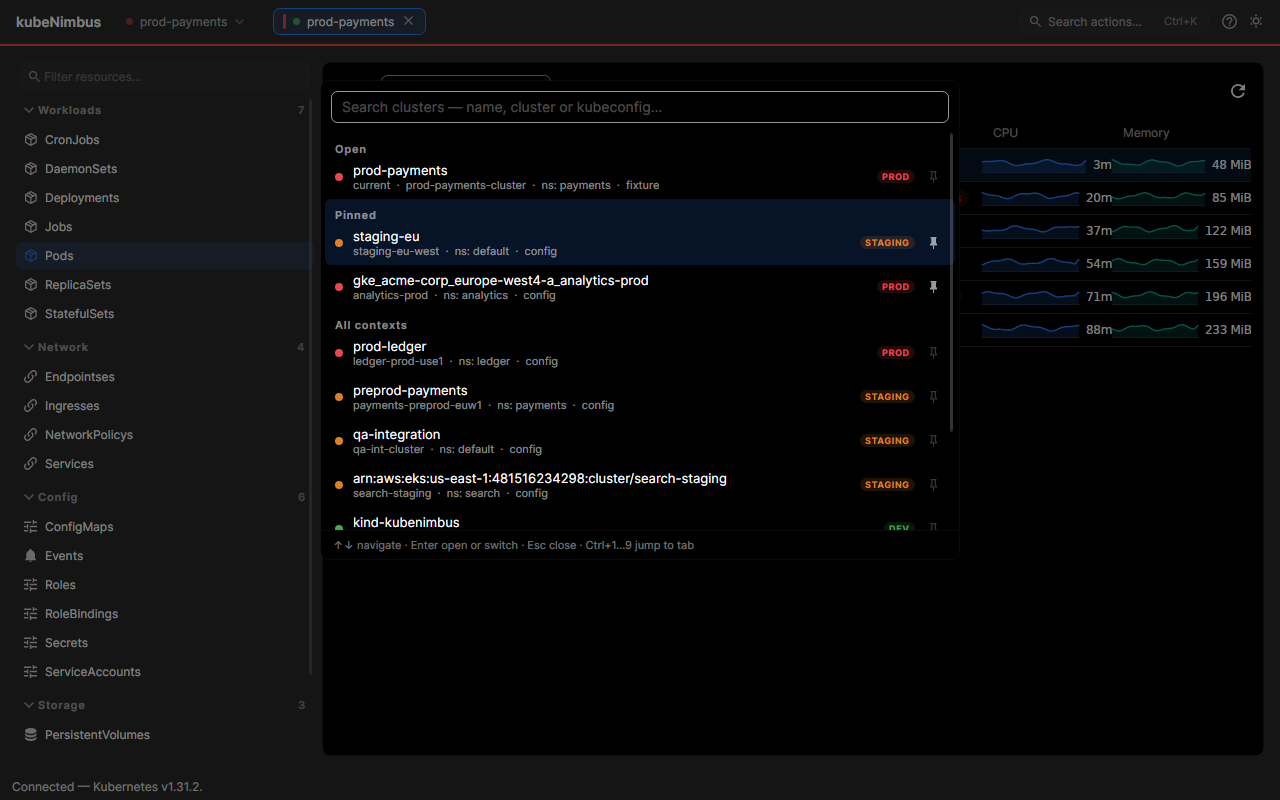
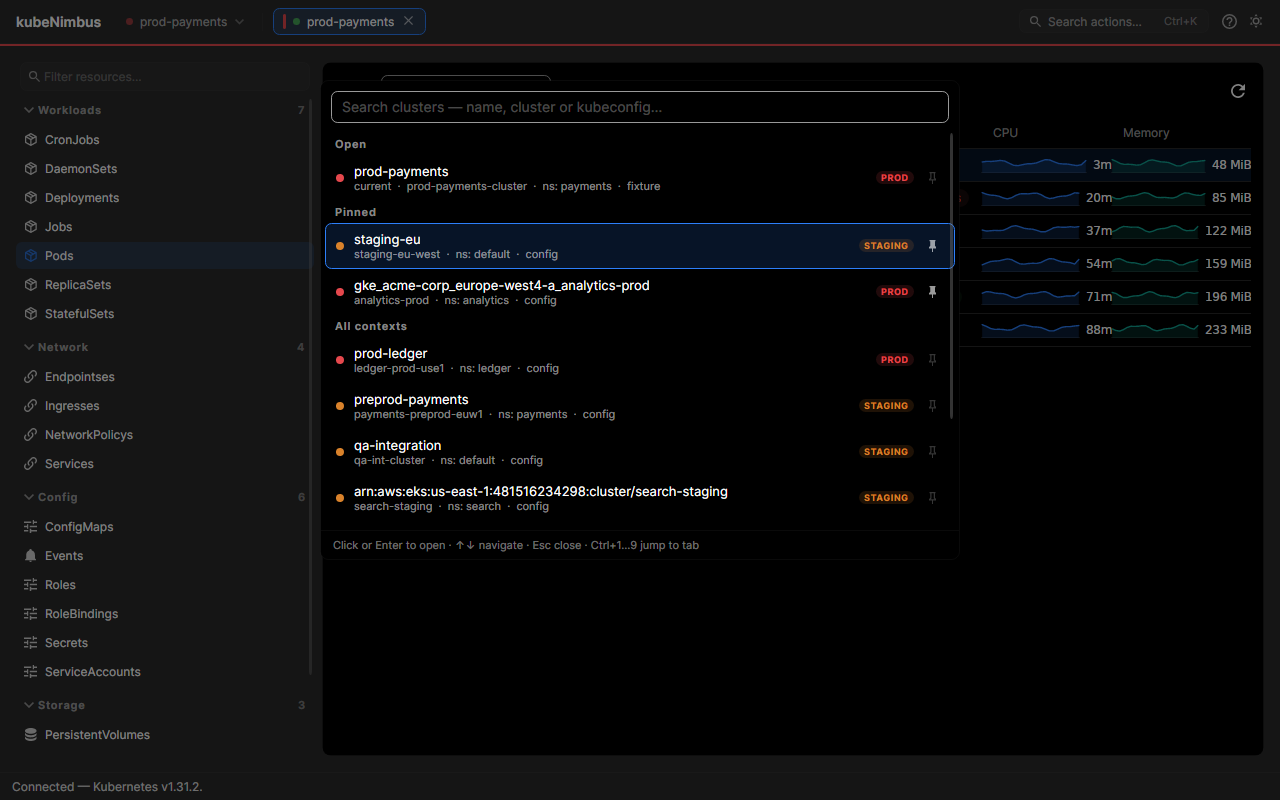
Fix switcher rows only being clickable on the cluster name, and add press feedback
Reported as "clicking the selected cluster feels unresponsive — unclear
whether it takes one click, a double click, or does nothing." It was a
real bug, not just a feel problem.

The switcher row's Tapped handler sat on the item template's root
StackPanel. A Panel with a null Background does not hit-test in Avalonia
where no child covers it, and the ListBoxItem's own 10,7 padding lies
outside the content template entirely. So a click landed on the cluster
name opened the cluster, and a click anywhere else in the row — the empty
right half, the padding — selected it and stopped there. Selection moving
without anything opening is exactly what reads as "did that register?".

Taps are now handled on the ListBox and resolved to the ListBoxItem under
the pointer, so the whole row works; resolving from the event source
rather than acting on SelectedItem also means a tap on the empty area
below the last row correctly does nothing.

Feedback, which was the other half of the report:

- Cluster tabs, switcher rows and the chip/pill buttons get Cursor=Hand,
  so a click target says it is one before it's clicked.
- Cluster tabs get a pressed state. Note it's a real class toggled from
  the pointer handlers, not `:pressed` — that pseudo-class is set by
  button-like controls only, so on a Border it compiles and silently
  never matches. Same trap, written down in CLAUDE.md.
- The switcher's selected row now carries an accent outline, not just a
[…]

Changed region(s): [[0.25, 0.1562, 0.75, 0.6875], [0.6562, 0.4062, 0.7188, 0.6562]]

diff --git a/src/KubeNimbus.App/Views/MainWindow.axaml.cs b/src/KubeNimbus.App/Views/MainWindow.axaml.cs
@@ -5,6 +5,7 @@ using Avalonia.Interactivity;
 using Avalonia.Media;
 using Avalonia.Styling;
 using Avalonia.Threading;
+using Avalonia.VisualTree;
 using KubeNimbus.App.ViewModels;
 
 namespace KubeNimbus.App.Views;
@@ -15,6 +16,13 @@ public partial class MainWindow : Window
     private Point _dragStart;
     private bool _dragging;
 
+    /// <summary>
+    /// The tab header currently held down, so its "pressed" class can be cleared on
+    /// release. Tracked rather than re-resolved from the release event because a drag
+    /// can end over a different tab than it started on.
+    /// </summary>
+    private Border? _pressedTab;
+
     public MainWindow()
     {
         InitializeComponent();
@@ -23,7 +31,11 @@ public partial class MainWindow : Window
         PaletteShortcutLabel.Text = Hotkeys.Describe(Hotkeys.CommandPalette);
 
         KeyBindings.Add(new KeyBinding { Gesture = Hotkeys.ClusterSwitcher, Command = new RelayOpenSwitcherCommand(this) });
-        SwitcherHintLabel.Text = $"↑↓ navigate · Enter open or switch · Esc close · {Hotkeys.PrimaryLabel}+1…9 jump to tab";
+        // Says "click" explicitly: with both a hovered and a selected row visible,
+        // whether the mouse needs one click or two is a real question, and a popup
+        // that answers it costs one line.
+        SwitcherHintLabel.Text =
+            $"Click or Enter to open · ↑↓ navigate · Esc close · {Hotkeys.PrimaryLabel}+1…9 jump to tab";
 
         KeyBindings.Add(new KeyBinding { Gesture = Hotkeys.ShortcutsHelp, Command = new RelayToggleShortcutsCommand(this) });
 
@@ -155,14 +167,21 @@ public partial class MainWindow : Window
         }
     }
 
-    private void OnSwitcherItemTapped(object? sender, TappedEventArgs e)
+    /// <summary>
+    /// Opens the tapped switcher row. Resolving the row from the event source rather
+    /// than acting on <c>SelectedItem</c> alone matters twice: a tap on the ListBox's
+    /// empty area below the last row must do nothing, and the row that opens must be
+    /// the row under the cursor even if selection hasn't caught up.
+    /// </summary>
+    private void OnSwitcherListTapped(object? sender, TappedEventArgs e)
     {
-        // The pin button lives inside the row; a tap that started there has already
-        // been handled and must not also activate the row.
-        if (!e.Handled)
+        if (e.Source is not Visual source
+            || source.FindAncestorOfType<ListBoxItem>(includeSelf: true) is not { DataContext: ClusterSwitcherItemViewModel item })
         {
-            Vm?.Switcher.ActivateSelected();
+            return;
         }
+
+        Vm?.Switcher.ActivateItem(item);
     }
 
     private void OnSwitcherPinClick(object? sender, RoutedEventArgs e)
@@ -268,6 +287,8 @@ public partial class MainWindow : Window
             _draggingTab = tab;
             _dragStart = e.GetPosition(TabStrip);
             _dragging = false;
+            _pressedTab = border;
+            border.Classes.Add("pressed");
             e.Pointer.Capture(border);
         }
     }
@@ -311,6 +332,8 @@ public partial class MainWindow : Window
     private void OnTabHeaderPointerReleased(object? sender, PointerReleasedEventArgs e)
     {
         e.Pointer.Capture(null);
+        _pressedTab?.Classes.Remove("pressed");
+        _pressedTab = null;
         _draggingTab = null;
         // Deferred so the Tapped gesture (which fires after PointerReleased) still sees the flag.
         Dispatcher.UIThread.Post(() => _dragging = false);

diff --git a/src/KubeNimbus.App/ViewModels/ClusterTabViewModel.cs b/src/KubeNimbus.App/ViewModels/ClusterTabViewModel.cs
@@ -66,10 +66,19 @@ public sealed partial class ClusterTabViewModel : ObservableObject, IAsyncDispos
     public ClusterClient? Client { get; private set; }
 
     [ObservableProperty]
+    [NotifyPropertyChangedFor(nameof(IsIdle))]
     private bool _isConnecting;
 
     [ObservableProperty]
+    [NotifyPropertyChangedFor(nameof(IsIdle))]
     private bool _isConnected;
+
+    /// <summary>
+    /// Neither connected nor connecting. The tab's status dot needs three states, not
+    /// two: opening a cluster that is still dialling looked identical to one that
+    /// failed, so picking a cluster appeared to do nothing until it finished.
+    /// </summary>
+    public bool IsIdle => !IsConnected && !IsConnecting;
 
     [ObservableProperty]
     private string _status = "Not connected.";

diff --git a/src/KubeNimbus.App/ViewModels/ClusterSwitcherViewModel.cs b/src/KubeNimbus.App/ViewModels/ClusterSwitcherViewModel.cs
@@ -273,9 +273,20 @@ public sealed partial class ClusterSwitcherViewModel(Func<IEnumerable<ClusterSwi
     {
         if (SelectedItem is { } item)
         {
-            Close();
-            Activate?.Invoke(item);
+            ActivateItem(item);
         }
+    }
+
+    /// <summary>
+    /// Opens (or switches to) a specific row. The mouse path goes through here rather
+    /// than <see cref="ActivateSelected"/> so the row that opens is the one that was
+    /// clicked, not whatever selection happened to be current.
+    /// </summary>
+    public void ActivateItem(ClusterSwitcherItemViewModel item)
+    {
+        SelectedItem = item;
+        Close();
+        Activate?.Invoke(item);
     }
 
     public void MoveSelection(int delta)

diff --git a/CLAUDE.md b/CLAUDE.md
@@ -100,7 +100,20 @@ choice must be AOT/trimming-compatible from day one.
    code-behind `ApplyDockState` by mutating the content grid's row heights —
    a `GridSplitter` mutates `RowDefinition.Height` directly and would fight a
    one-way height binding, which is why this is code-behind, not XAML.
-8. **Every list/panel state gets an explicit visual** — loading, empty,
+8. **A click target must hit-test across its whole area, and say it is one.**
+   In Avalonia a `Panel` or `Border` with a **null** `Background` does not
+   hit-test where no child covers it, and a container's own `Padding` lies
+   outside its content template entirely. A pointer handler on an item
+   template's root panel therefore fires on the text and nowhere else — the
+   row highlights on click but does nothing, which reads as "is this one click
+   or two, or is it broken?". Handle taps on the **items control** and resolve
+   the row from the event source (`OnSwitcherListTapped`), or give the target an
+   explicit `Background="Transparent"`. Anything clickable also gets
+   `Cursor="Hand"` and a pressed state — and `:pressed` is a pseudo-class only
+   button-like controls set, so on a `Border` it must be a real class toggled
+   from the pointer handlers (`Border.clusterTab.pressed`), never
+   `Border.clusterTab:pressed`, which compiles and silently never matches.
+9. **Every list/panel state gets an explicit visual** — loading, empty,
    disconnected, conflict, delete-confirm — never a blank rectangle that
    looks like a bug. `ClusterTabViewModel.IsListLoading`/`IsListEmpty` is the
    pattern to extend for new list-backed views. This includes the **shell's
@@ -141,9 +154,13 @@ a file moves). Notes for anyone changing it:
   row of each group (`ClusterSwitcherItemViewModel.SectionHeader`). A nested
   ItemsControl-of-ListBoxes gives every section its own selection, and they clear
   each other's the moment they share a `SelectedItem`; flat also keeps arrow-key
-  scroll-into-view working.
+  scroll-into-view working. The selection highlight therefore lives on an inner
+  `Border.switcherRowBody`, not on the `ListBoxItem` — the container spans the
+  group heading too, and highlighting it draws the selection around the title.
 - **Never preselect the current tab.** The first Enter has to go somewhere.
 - A context that is already open appears **only** under Open, never twice.
+- **Row activation is handled on the ListBox, not in the item template.** See the
+  hit-testing rule below — this one shipped broken once already.
 
 **Environment colours** (`ClusterEnvironment` / `ClusterEnvironments.Classify`,
 Core) are the other half. "One wrong kubectl command in the wrong context can
@@ -342,7 +359,7 @@ sample also lands in a rolling window and gets drawn:
   and pod detail's **Usage** tab (whole-pod CPU and memory charts plus a
   per-container pair). The tab is appended *after* Events so the existing
   `SelectedDetailTabIndex` values (Logs=0, Env=1, Events=2) stay stable.
-- The Usage tab distinguishes its three states explicitly (UI rule 8):
+- The Usage tab distinguishes its three states explicitly (UI rule 9):
   no metrics API on this cluster / samples not collected yet / charts. The
   first two look identical otherwise and lead to very different next steps.
 
@@ -504,7 +521,7 @@ container picker), env vars of every ref kind (Environment tab + Reveal), a
 StatefulSet with PVCs (Storage), a CronJob firing every minute (a visibly live
 watch), a whole `demo-broken` namespace of CrashLoopBackOff/ImagePullBackOff/
 unschedulable/never-Ready pods (the status pills and empty/error states of UI
-rule 8), three CRDs **two of which share the Kind `Widget` in different API
+rule 9), three CRDs **two of which share the Kind `Widget` in different API
 groups** (the sidebar's group-aware filter), RBAC subjects including a dangling
 binding, a `resourceNames`-narrowed rule and a ClusterRole bound by a *RoleBinding*
 (the access review, both directions), and a synthetic three-revision Helm release

diff --git a/CHANGELOG.md b/CHANGELOG.md
@@ -40,6 +40,21 @@ it as the GitHub Release body, so headings must match tags exactly
 - The command palette no longer lists every kubeconfig context; it offers the
   switcher instead, so a large kubeconfig can't bury every other command.
 
+### Fixed
+
+- Clicking a cluster in the switcher only worked when the click landed on the
+  cluster's name. A pointer handler sat on the row's content panel, which in
+  Avalonia doesn't receive clicks where no child covers it — so most of each
+  row, and the row's own padding, selected the cluster without opening it. Taps
+  are now handled on the list itself and resolved to the row underneath.
+- Cluster tabs and switcher rows had no pressed state and no hand cursor, so a
+  click gave nothing back until whatever it did became visible — and switching
+  to the cluster you were already on gave nothing back at all.
+- A cluster tab's status dot showed the same grey for "connecting" and "not
+  connected", so opening a cluster looked like it had failed until it finished.
+  Connecting is now amber, and the dot carries the connection status as a
+  tooltip.
+
 ## [0.1.0] - 2026-08-02
 
 First public release. Everything below is new.
